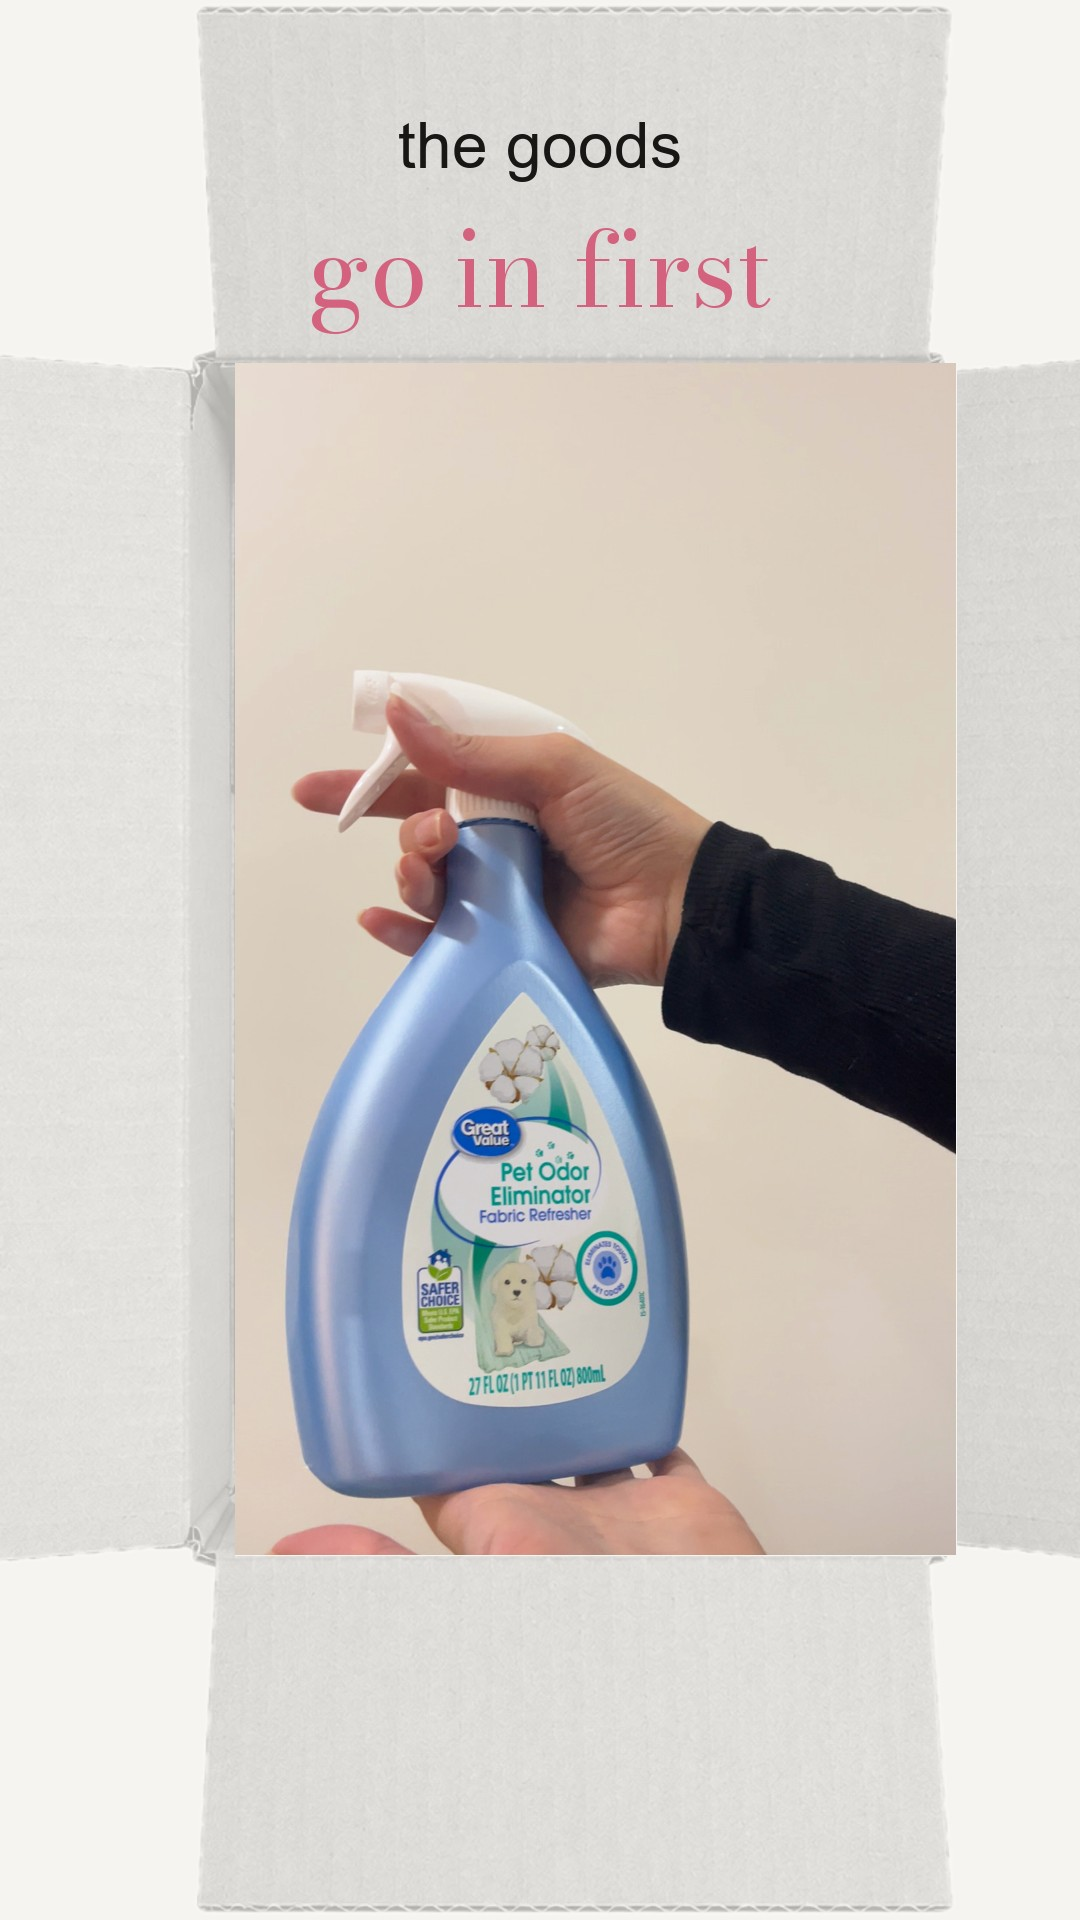
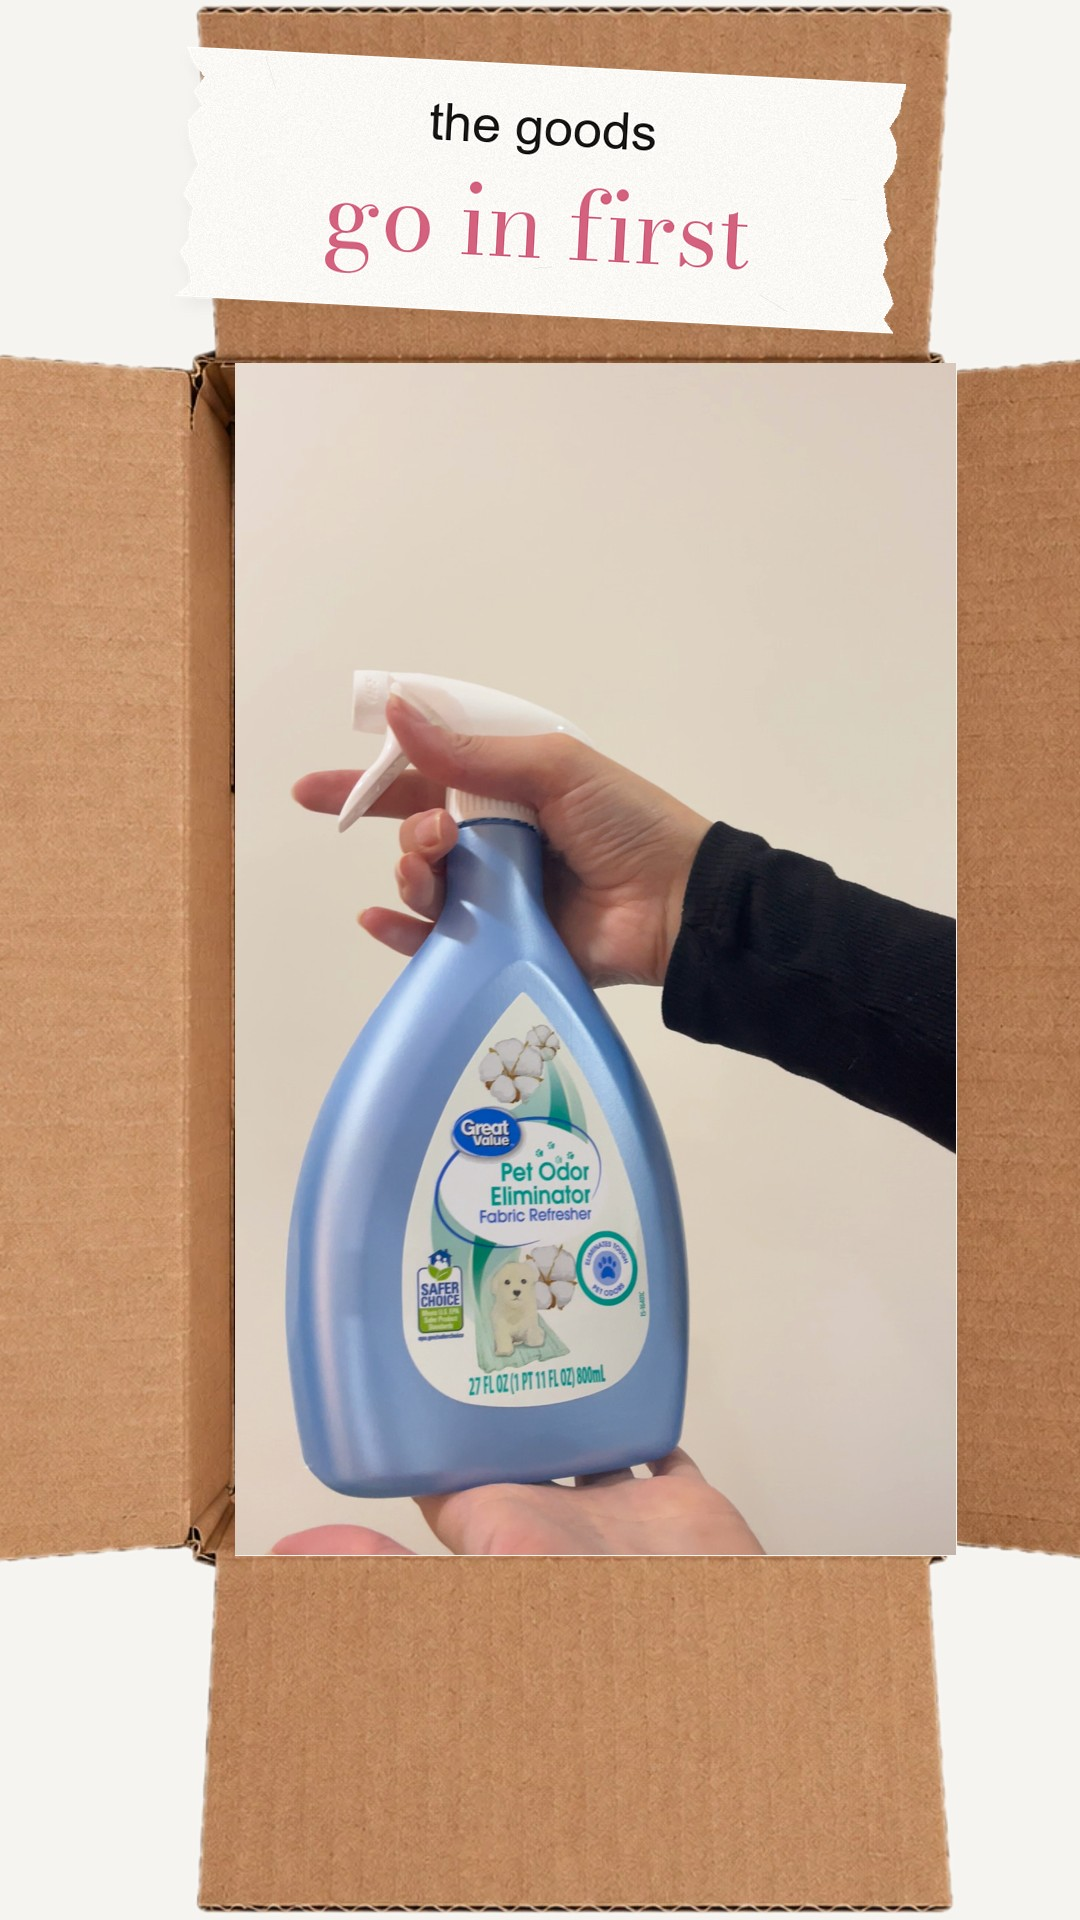
Reel Template Packs: #2 storyboard v2 (kraft box closing its real flaps, label TO: YOU, envelope then wax seal, words on paper tape)

diff --git a/automation/reel-template-pack/build/storyboard_02.py b/automation/reel-template-pack/build/storyboard_02.py
@@ -36,6 +36,13 @@ def word(img, xy, text, font, fill, anchor='la', shadow=False):
         img.alpha_composite(s)
     img.alpha_composite(lay)
 
+def tape_words(img, c, small, big, rot=-3):
+    """Words on a strip of white paper tape stuck to the box: small sans line + accent serif line."""
+    strip = C.torn_strip((720, 250), (252, 250, 246), seed=17, edges='lr')
+    d = ImageDraw.Draw(strip)
+    d.text((360, 62), small, font=F(SANS, 52), fill=INK, anchor='mm'); d.text((360, 158), big, font=F(SERIF, 96), fill=ROSE, anchor='mm')
+    place(img, C.shadow(strip, offset=(4, 8), blur=8, alpha=60), c, rot)
+
 def place(img, item, c, rot=0):
     it = item.rotate(rot, expand=True, resample=Image.BICUBIC)
     img.alpha_composite(it, (int(c[0] - it.width / 2), int(c[1] - it.height / 2)))
@@ -71,7 +78,7 @@ def C_bbox_offset():
     near = src.point(lambda v: 0 if v >= 237 else 255); bb = near.getbbox()
     return bb[0], bb[1]
 
-def box_scene(video, colour='white', floor_pad=0):
+def box_scene(video, colour='kraft', floor_pad=0):
     canvas = Image.new('RGBA', (W, H), (246, 244, 240, 255))
     box, (xo, y0), fl = open_box(colour)
     x0, y1_, x1, y2 = fl
@@ -89,8 +96,8 @@ def f1():
     lab = C.ship_label().resize((520, 780))
     d = ImageDraw.Draw(lab); m = F(MONO, 34)
     d.text((60, 205), 'Sunday Studio', font=m, fill=INK)
-    d.text((60, 315), 'Jess M.', font=m, fill=INK); d.text((60, 357), 'Portland, OR', font=m, fill=INK)
-    d.text((60, 495), '1 x spray clea|', font=m, fill=INK)
+    d.text((60, 315), 'YOU', font=F(MONO, 44), fill=INK); d.text((60, 368), '123 YOUR HOME', font=m, fill=INK)
+    d.text((60, 495), '1 x somethin|', font=m, fill=INK)
     lab = lab.resize((460, 690)); place(im, lab, (790, 600), -4)
     word(im, (70, 150), 'packing', F(SANS, 64), INK)
     word(im, (60, 230), 'an order', F(SERIF, 100), ROSE)
@@ -101,8 +108,7 @@ def f1():
 def f2():
     """The real open box fills the frame; the clip plays on its floor; words sit on the flaps."""
     im, fl = box_scene(footage('IMG_1439', 2.0, (W, H)))
-    word(im, (W / 2, 110), 'the goods', F(SANS, 64), INK, anchor='ma')
-    word(im, (W / 2, 190), 'go in first', F(SERIF, 104), ROSE, anchor='ma')
+    tape_words(im, (W / 2, 190), 'the goods', 'go in first')
     return im
 
 def f3():
@@ -132,11 +138,11 @@ def f4():
         place(im, p, (r.randint(-60, W + 60), r.randint(-60, H + 60)), r.randint(0, 359))
     return im
 
-def f5():
+def f5(seal_in=False):
     """The little extra: pink shreds fill the box around a smaller video spot; the thank-you envelope slides in."""
     im = Image.new('RGBA', (W, H), (246, 244, 240, 255))
-    box, (xo, y0), fl = open_box('white'); x0, y1_, x1, y2 = fl
-    shreds = ImageOps.fit(prop('paper-shreds-pink'), (x1 - x0, y2 - y1_))
+    box, (xo, y0), fl = open_box('kraft'); x0, y1_, x1, y2 = fl
+    shreds = ImageOps.fit(white_shreds(), (x1 - x0, y2 - y1_))
     im.alpha_composite(shreds, (x0, y1_))
     spot = ImageOps.fit(footage('IMG_1460', 2.0, (W, H)), (x1 - x0 - 150, int((x1 - x0 - 150) * 1.2)))
     m = Image.new('L', spot.size, 0); ImageDraw.Draw(m).rounded_rectangle((0, 0, spot.width - 1, spot.height - 1), radius=36, fill=255); spot.putalpha(m)
@@ -144,12 +150,21 @@ def f5():
     im.alpha_composite(sp, (int((x0 + x1) / 2 - sp.width / 2), int((y1_ + y2) / 2 - sp.height / 2) - 60))
     hole = Image.new('L', box.size, 255); ImageDraw.Draw(hole).rectangle((x0 - xo, y1_ - y0, x1 - xo, y2 - y0), fill=0)
     b = box.copy(); b.putalpha(ImageChops.multiply(b.split()[3], hole)); im.alpha_composite(b, (xo, y0))
-    env = prop('envelope').resize((620, 413)); seal = prop('wax-seal-thank-you').resize((230, 230))
-    env.alpha_composite(seal, (env.width // 2 - 115, env.height // 2 - 70))
+    env = prop('envelope').resize((620, 413))
     place(im, C.shadow(env, offset=(8, 14), blur=14, alpha=70), (660, 1560), 10)
-    word(im, (W / 2, 80), 'a little', F(SANS, 60), INK, anchor='ma')
-    word(im, (W / 2, 150), 'extra', F(SERIF, 110), ROSE, anchor='ma')
+    if seal_in:   # the wax seal is brought in after the envelope lands
+        seal = C.shadow(prop('wax-seal-thank-you').resize((300, 300)), offset=(10, 22), blur=20, alpha=70)
+        place(im, seal, (600, 1380), -8)
+        d = ImageDraw.Draw(im)
+        for k in range(3): d.line((420 + 30 * k, 1180 - 22 * k, 470 + 30 * k, 1240 - 22 * k), fill=INK + (255,), width=6)
+    tape_words(im, (W / 2, 190), 'a little', 'extra', 2)
     return im
+
+def white_shreds():
+    """White paper shreds from the pink photo: keep the light and shadow, drop the colour."""
+    g = ImageOps.grayscale(prop('paper-shreds-pink').convert('RGB'))
+    g = ImageOps.autocontrast(g, cutoff=1).point(lambda v: min(255, int(120 + v * 0.55)))
+    return Image.merge('RGB', (g, g, g.point(lambda v: max(0, v - 3)))).convert('RGBA')
 
 def closed_box_with_tape():
     b = prop('box-closed-top').resize((860, 1150))
@@ -171,22 +186,91 @@ def f6():
     return im
 
 def f7():
-    """CTA: the box slides partly off-screen, the focus moves to the product name."""
+    """CTA: the same sealed box shrinks and slides partly off-screen, the focus moves to the product name."""
     im = Image.new('RGBA', (W, H), (246, 244, 240, 255))
-    bx = closed_box_with_tape().resize((770, 980))
-    place(im, bx, (260, 1500), -16)
+    sealed = f6b(words=False, bg=(0, 0, 0, 0)); box_only = sealed.crop(sealed.getbbox())
+    box_only = box_only.resize((int(box_only.width * 0.62), int(box_only.height * 0.62)))
+    place(im, C.shadow(box_only, offset=(10, 16), blur=18, alpha=70), (300, 1500), -16)
     word(im, (W / 2, 330), 'Spray cleaner', F(SERIF, 120), ROSE, anchor='ma')
     word(im, (W / 2, 500), 'shop at the link in my bio', F(SANS, 50), INK, anchor='ma')
     place(im, C.washi(560, 90, 'gingham', ((250, 232, 120), WHITE), seed=11), (W / 2, 610), -3)
     return im
 
+
+# ---- the same box closing its own flaps over the video (flap pieces cut from the real photo) ------------------------------
+SRC_FLOOR = (322, 262, 1132, 752)
+SRC_FLAPS = {'top': (300, 60, 1140, 262), 'bottom': (318, 752, 1150, 1036), 'left': (74, 256, 322, 770), 'right': (1132, 254, 1376, 772)}
+
+def _fold_piece(flap, edge, theta):
+    """A real flap photo at a fold angle: foreshortened toward its hinge, mirrored and a bit darker once past 90."""
+    th = math.radians(theta); c = abs(math.cos(th)); widen = 1 + 0.12 * math.sin(th)
+    vert = edge in ('top', 'bottom')
+    w, h = flap.size
+    if vert: nw, nh = int(w * widen), max(1, int(h * c))
+    else:    nw, nh = max(1, int(w * c)), int(h * widen)
+    piece = flap.resize((nw, nh), Image.LANCZOS)
+    if theta > 90:
+        piece = ImageOps.flip(piece) if vert else ImageOps.mirror(piece)
+        a = piece.split()[3]; piece = piece.convert('RGB').point(lambda v: int(v * 0.86)).convert('RGBA'); piece.putalpha(a)
+    return piece
+
+def box_state(video, short_deg=15, long_deg=15, bg=(246, 244, 240, 255)):
+    """The kraft box (landscape, as photographed) with the clip on its floor and the flaps at the given angles,
+    then turned upright and scaled to fill the frame like open_box()."""
+    cut = prop('box-open-kraft'); ox, oy = C_bbox_offset()
+    land = Image.new('RGBA', cut.size, (0, 0, 0, 0))
+    fx0, fy0, fx1, fy1 = [v - o for v, o in zip(SRC_FLOOR, (ox, oy, ox, oy))]
+    vid = ImageOps.fit(video.rotate(90, expand=True), (fx1 - fx0, fy1 - fy0)); land.alpha_composite(vid, (fx0, fy0))
+    body = cut.copy(); hole = Image.new('L', cut.size, 255); hd = ImageDraw.Draw(hole)
+    hd.rectangle((fx0, fy0, fx1, fy1), fill=0)
+    rects = {k: tuple(v - o for v, o in zip(r, (ox, oy, ox, oy))) for k, r in SRC_FLAPS.items()}
+    for r in rects.values(): hd.rectangle(r, fill=0)     # the flaps are redrawn at their angle below
+    body.putalpha(ImageChops.multiply(body.split()[3], hole)); land.alpha_composite(body)
+    for edge in ('left', 'right', 'top', 'bottom'):     # short side flaps first, long flaps on top
+        theta = short_deg if edge in ('left', 'right') else long_deg
+        x0, y0, x1, y1 = rects[edge]; flap = cut.crop(rects[edge])
+        p = _fold_piece(flap, edge, theta); cx = (x0 + x1) / 2; cy = (y0 + y1) / 2
+        if edge == 'top':    pos = (cx - p.width / 2, (y1 - p.height) if theta <= 90 else y1)
+        if edge == 'bottom': pos = (cx - p.width / 2, y0 if theta <= 90 else y0 - p.height)
+        if edge == 'left':   pos = ((x1 - p.width) if theta <= 90 else x1, cy - p.height / 2)
+        if edge == 'right':  pos = (x0 if theta <= 90 else x0 - p.width, cy - p.height / 2)
+        if theta > 95:       # a flap over the opening casts a soft shadow on the clip
+            sh = Image.new('RGBA', land.size, (0, 0, 0, 0)); m = Image.new('L', land.size, 0)
+            ImageDraw.Draw(m).rectangle((pos[0] + 10, pos[1] + 14, pos[0] + p.width + 10, pos[1] + p.height + 14), fill=110)
+            sh.putalpha(m.filter(ImageFilter.GaussianBlur(16))); land.alpha_composite(sh)
+        land.alpha_composite(p, (int(pos[0]), int(pos[1])))
+    up = land.rotate(-90, expand=True); s = 1.3 * W / up.width
+    up = up.resize((int(up.width * s), int(up.height * s)))
+    canvas = Image.new('RGBA', (W, H), bg)
+    canvas.alpha_composite(up, ((W - up.width) // 2, (H - up.height) // 2))
+    return canvas
+
+def f6a():
+    """The flaps closing over the video: side flaps already in, the long flaps swinging shut."""
+    im = box_state(footage('IMG_1447', 1.0, (W, H)), 180, 115)
+    tape_words(im, (W / 2, 160), 'all', 'tucked in', -2)
+    return im
+
+def f6b(words=True, bg=(246, 244, 240, 255)):
+    """Closed: washi tape zips across the seam, the label slaps on."""
+    im = box_state(footage('IMG_1447', 1.0, (W, H)), 180, 180, bg)
+    place(im, C.washi(1150, 140, 'dots', ((166, 206, 242), WHITE), seed=8), (540, 900), 82)
+    place(im, C.washi(1150, 140, 'hearts', (WHITE, ROSE), seed=9), (560, 980), 98)
+    lab = C.ship_label().resize((460, 690)); d = ImageDraw.Draw(lab); m = F(MONO, 29)
+    d.text((52, 180), 'Sunday Studio', font=m, fill=INK); d.text((52, 278), 'YOU', font=F(MONO, 38), fill=INK)
+    d.text((52, 325), '123 YOUR HOME', font=m, fill=INK); d.text((52, 440), '1 x something nice', font=m, fill=INK)
+    place(im, lab, (600, 1300), -6)
+    if words: tape_words(im, (W / 2, 160), 'sealed +', 'on its way', 3)
+    return im
+
 def main():
-    frames = [f1(), f2(), f3(), f4(), f5(), f6(), f7()]
+    frames = [f1(), f2(), f3(), f4(), f5(), f5(True), f6a(), f6b(), f7()]
     names = ['1 label types in + picking items', '2 real box, video on the floor', '3 one peanut drops in',
-             '4 peanuts take over', '5 shreds + thank-you envelope', '6 sealed: tape + label', '7 CTA']
+             '4 peanuts take over', '5a shreds + the envelope lands', '5b the wax seal is brought in', '6a the flaps close over the video',
+             '6b sealed: washi tape + label', '7 CTA']
     for n, f in zip(names, frames): f.convert('RGB').save(OUT / f'{n}.jpg', quality=90)
-    sheet = Image.new('RGB', (W * 4 + 60, H * 2 + 20), 'white')
-    for i, f in enumerate(frames): sheet.paste(f.convert('RGB'), ((i % 4) * (W + 20), (i // 4) * (H + 20)))
+    sheet = Image.new('RGB', (W * 5 + 80, H * 2 + 20), 'white')
+    for i, f in enumerate(frames): sheet.paste(f.convert('RGB'), ((i % 5) * (W + 20), (i // 5) * (H + 20)))
     sheet.resize((sheet.width // 3, sheet.height // 3)).save(OUT / 'storyboard-02.jpg', quality=90)
     print('saved', OUT)
 
